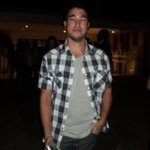
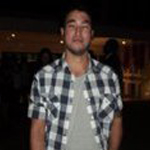
image light

diff --git a/script.js b/script.js
@@ -7,9 +7,6 @@ function toggleMode() {
   if (html.classList.contains("light")) {
     img.setAttribute("src", "./assets/fernando.jpeg")
   } else {
-    img.setAttribute(
-      "src",
-      "https://media.licdn.com/dms/image/C4E03AQEzArxl80sYrg/profile-displayphoto-shrink_800_800/0/1636688205031?e=1700697600&v=beta&t=bWhJY4tDxWLb7krJYGK4tUop5VMsxe5-sI4pWyi8CU8"
-    )
+    img.setAttribute("src", "./assets/fernando dark.png")
   }
 }
